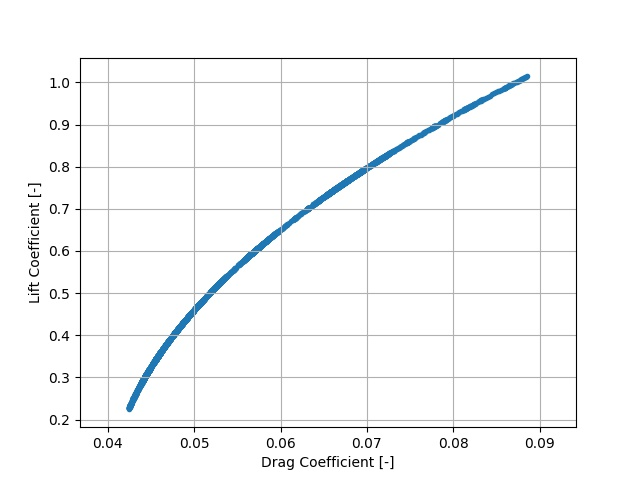
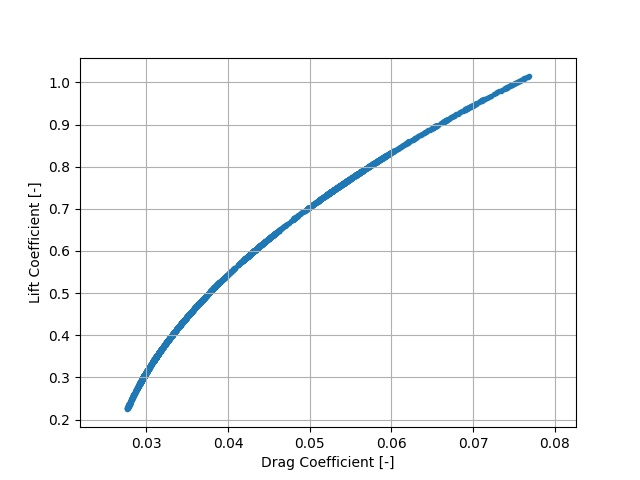
Plots voor Validation

diff --git a/CLCDcurve.py b/CLCDcurve.py
@@ -1,10 +1,10 @@
-from Cit_par import mass,A,e,CD0,rho0,Tempgrad,R,g,Temp0,S,c
+from Cit_par import mass,CD0,rho0,Tempgrad,R,g,Temp0,S,c,A
 from math import pi
 import numpy as np
 import matplotlib.pyplot as plt
 import pandas as pd
 from ReadMeas import *
-from ClCdRef import passmass, Vequi, totalthrustele, totalthrustelestand, totalthrustele_mat, totalthrustele_matstand, CLalpha, b,
+from ClCdRef import passmass, Vequi, totalthrustele, totalthrustelestand, totalthrustele_mat, totalthrustele_matstand, CLalpha, b,e,CD0, AOAlist, CD, CLlist
 
 ##READ DATA AND CREATE ARRAY##
 time = np.array(pd.read_csv('flight_data/time.csv', delimiter=',', header=None))
@@ -43,24 +43,29 @@ CLline_CL = clalpha_mat*AOA_CL[:,0] + ma_mat
 print('Cl_alpha =', clalpha_mat, clalpha_mat*(180/pi))
 ##Calculate CD##
 CDgraph_mat = CD0 + (CLline_CL) ** 2 / (pi * A * e)
+CDstat = CD
 
 #From Numerical Model#
+AOAstat = np.array(AOAlist)
+linecl_stat = CLalpha*AOAstat + b
 
 #Plots CL and CD##
 # plt.grid()
-# plt.scatter(AOA_CL[:,0],CLgraph_mat[:,0],marker= '.', label='Measure point')
-# plt.plot(AOA_CL[:,0],CLline_CL,c='darkorange', label= 'Least squares')
+# plt.plot(AOAstat,linecl_stat, label='Stationary Flight Measurements')
+# plt.plot(AOA_CL[:,0],CLline_CL,c='darkorange', label= 'Least Squares of Flightdata')
 # plt.ylabel('Lift Coefficient [-]')
 # plt.xlabel('Angle of Attack [deg]')
 # plt.legend()
-# plt.savefig('CLalpha_mat.jpg')
+# plt.savefig('CLalphacompare.jpg')
 # plt.show()
 #
 # plt.grid()
-# plt.scatter(CDgraph_mat,CLline_CL, marker='.')
+# plt.scatter(CDgraph_mat,CLline_CL, marker='.', label='Measure Point Flightdata')
+# plt.plot(CDstat,CLlist,c='orange', label='Stationary Flight Measurements')
 # plt.ylabel('Lift Coefficient [-]')
 # plt.xlabel('Drag Coefficient [-]')
-# plt.savefig('CLCD_mat.jpg')
+# plt.legend()
+# plt.savefig('CLCDcompare.jpg')
 # plt.show()
 
 ##------------Reynolds Number Range-----------##

diff --git a/ClCdRef.py b/ClCdRef.py
@@ -102,7 +102,9 @@ piAe,CD0 = np.linalg.lstsq(C,CDlist,rcond=None)[0]
 #plt.ylabel('Drag coefficient [-]')
 #plt.plot()
 
+
 e = 1/(piAe*np.pi*A)
+CD = CD0 + CL2/(np.pi*A*e)
 print('CD0 = ', CD0,'  e = ',e)
 
 # plt.scatter(CDlist,CLlist)
